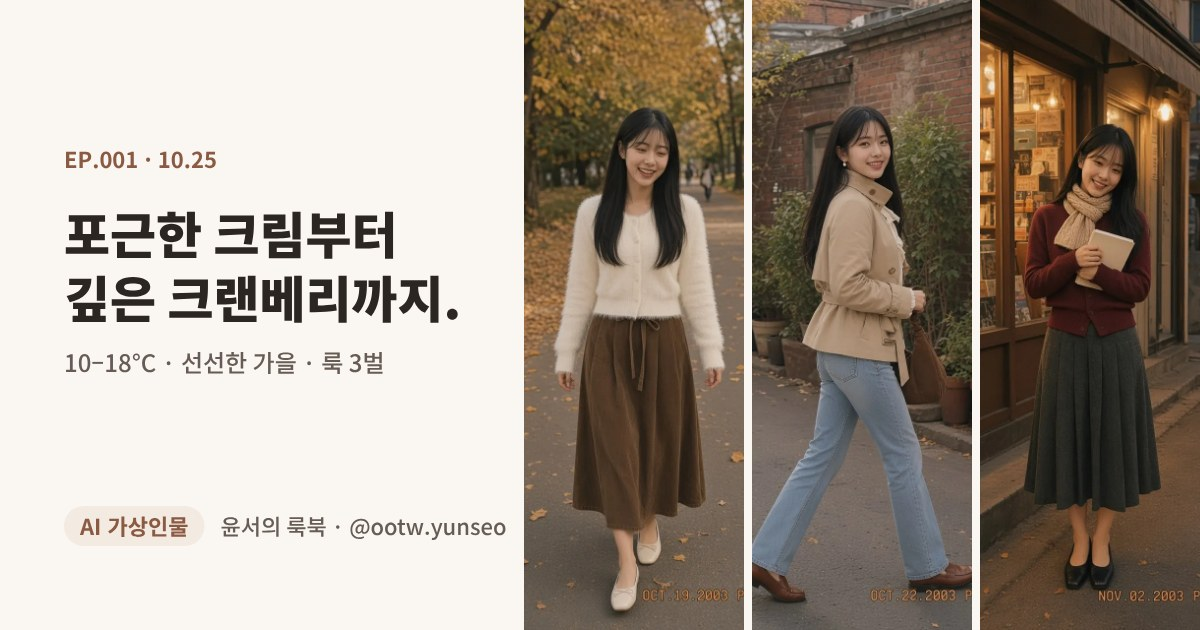
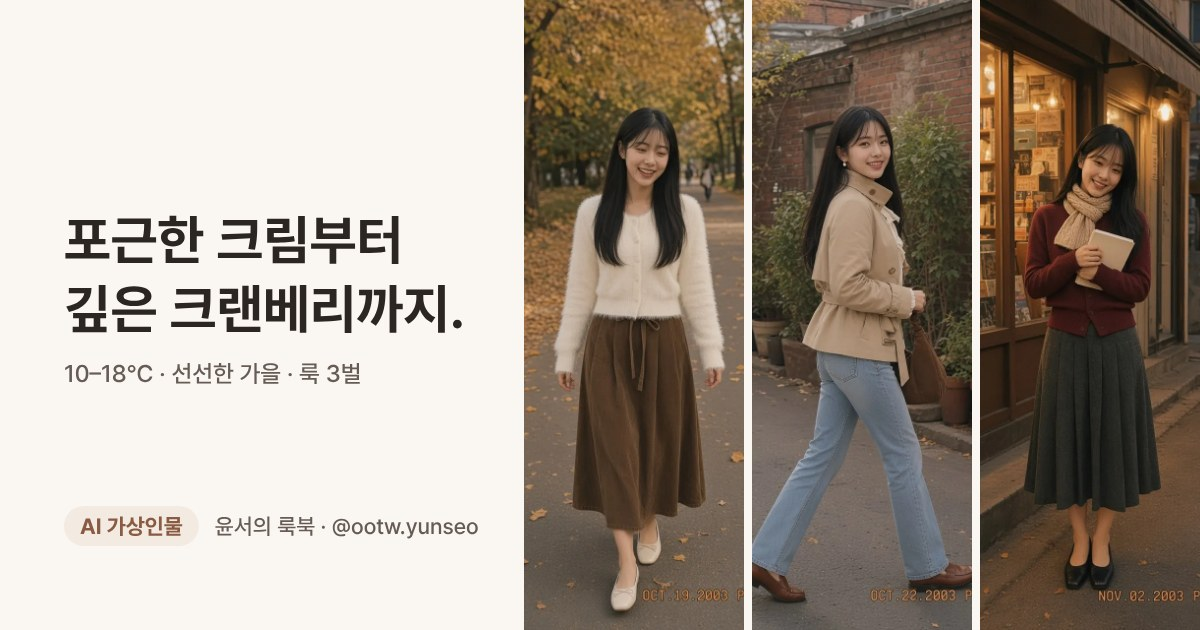
화면에서 EP 번호·날짜 삭제: 카드·배지·상세 머리·탭 제목·og 제목/설명/그림·복사 글에서 번호와 날짜 제거(주소·파일명·정렬용 date 칸은 유지), 룩 제목만 표시

Changed region(s): [[0.0308, 0.3317, 0.4008, 0.6333], [0.0617, 0.8143, 0.4317, 0.8746], [0.0308, 0.2413, 0.185, 0.2714]]

diff --git a/assets/look.js b/assets/look.js
@@ -25,7 +25,6 @@ function h(tag, attrs = {}, ...kids) {
   return el;
 }
 const safe = u => { try { const x = new URL(u); return x.protocol === 'https:' ? x.href : null; } catch { return null; } };
-const fmtDate = d => (d ? d.slice(5).replace('-', '.') : '');
 // "LOOK 1 · 크림 × 브라운" → "LOOK 1". 이름에 '·'가 없으면 순서로 붙인다
 const lookNo = (s, i) => (s.name.includes('·') ? s.name.split('·')[0].trim() : `LOOK ${i + 1}`);
 // 화면에 나오는 아이템 = 주소가 있는 것만. 주소가 빈 칸(아직 안 쓰는 쿠팡·무신사 자리)은 보이지도, 세지도 않는다
@@ -61,7 +60,7 @@ async function copyAll(look, pageUrl) {
   const all = look.sets.flatMap(itemsOf);
   const lines = [AD];
   if (all.some(it => shopOf(it) === '쿠팡')) lines.push(AD_COUPANG);
-  lines.push(AI_NOTE, '', `윤서의 룩북 EP.${look.id} · ${look.title}`, pageUrl, '');
+  lines.push(AI_NOTE, '', `윤서의 룩북 · ${look.title}`, pageUrl, '');
   for (const s of look.sets) {
     const items = itemsOf(s);
     if (!items.length) continue;
@@ -227,7 +226,7 @@ document.addEventListener('click', e => {
 });
 
 function render(look) {
-  document.title = `EP.${look.id} ${look.title} · 윤서의 룩북`;
+  document.title = `${look.title} · 윤서의 룩북`;
   const main = $('#look'); $('#loading').remove();
   const sets = look.sets.map((s, i) => ({ s, i, items: itemsOf(s), short: shortOf(look, s, i), loop: loopOf(look, s, i) }));
   const total = sets.reduce((n, x) => n + x.items.length, 0);
@@ -241,12 +240,11 @@ function render(look) {
   }
   const pageUrl = $('link[rel="canonical"]')?.href || location.href.split('#')[0];
 
-  // 머리: EP 번호 → 큰 제목 → 날씨 줄 → 룩 바로가기. 첫 화면은 최대한 사진에 양보한다
+  // 머리: 큰 제목 → 날씨 줄 → 룩 바로가기. 첫 화면은 최대한 사진에 양보한다
   // (날씨·색·태그·글 같은 칸은 JSON에 없어도 그 줄만 빠지고 화면은 그대로 나온다)
   const w = look.weather;
   main.append(
     h('header', { class: 'look-head' },
-      h('p', { class: 'eyebrow', text: [`EP.${look.id}`, fmtDate(look.date)].filter(Boolean).join(' · ') }),
       h('h1', { text: look.headline || look.title }),
       w ? h('p', { class: 'weather', text: ['🌤 ' + w.temp, w.note].filter(Boolean).join(' · ') }) : null,
       multi ? h('nav', { class: 'toc', 'aria-label': '룩 바로가기' },
@@ -285,7 +283,7 @@ function render(look) {
       look.palette?.length ? h('div', { class: 'palette' }, ...look.palette.map(([n, c]) => h('span', {}, h('i', { style: `background:${c}` }), n))) : null,
       // 상황 태그를 누르면 룩북에서 그 상황의 룩만 모아 본다
       look.tags?.length ? h('p', { class: 'tags' }, ...look.tags.map(t => h('a', { href: `${HOME}#${encodeURIComponent('상황:' + t)}`, text: '#' + t }))) : null,
-      ig ? igCard({ url: ig, thumb: look.instagramThumb || look.cover, alt: `EP.${look.id} 인스타 게시물 첫 사진`,
+      ig ? igCard({ url: ig, thumb: look.instagramThumb || look.cover, alt: `${look.title} 인스타 게시물 첫 사진`,
         label: '인스타에서 보기', sub: '게시물에 댓글 남기기 · @ootw.yunseo' }) : null,
       ytCard()),
     end));

diff --git a/assets/home.js b/assets/home.js
@@ -13,7 +13,6 @@ const COLORS = [
 ];
 const familyOf = c => COLORS.find(f => f[2].includes(c))?.[0];
 const pad = n => String(n).padStart(3, '0');
-const fmtDate = d => (d ? d.slice(5).replace('-', '.') : '');
 const rank = (list, v) => { const i = list.indexOf(v); return i < 0 ? 99 : i; };
 const iga = w => ((w.charCodeAt(w.length - 1) - 0xac00) % 28 ? '이' : '가'); // 받침 있으면 '이'
 const byNewest = (a, b) => b.id.localeCompare(a.id);
@@ -87,11 +86,11 @@ function looksOf(ep, pages) {
       if (it.cat) keys.add('아이템:' + it.cat);
       const f = familyOf(it.color); if (f) keys.add('컬러:' + f);
     }
-    // 쇼츠가 있는 룩은 EP 배지 안에만 ▶ 표시 (따로 누르는 곳을 만들지 않는다. 카드의 사진·이름은 모두 같은 곳으로)
+    // 쇼츠가 있는 룩은 배지 안에만 ▶ 표시 (따로 누르는 곳을 만들지 않는다. 카드의 사진·이름은 모두 같은 곳으로)
     const short = !!(ytId(s.youtubeId) || (i === 0 && ytId(ep.youtubeId)));
     return {
       ep, s, items, keys, short, id: `${ep.id}-${i + 1}`,
-      badge: (multi ? `EP.${ep.id} · ${s.name.split('·')[0].trim()}` : `EP.${ep.id}`) + (short ? ' ▶' : ''),
+      badge: [multi ? s.name.split('·')[0].trim() : '', short ? '▶' : ''].filter(Boolean).join(' '), // 번호·날짜는 화면에 쓰지 않는다
       title: s.name.split('·').pop().trim(), // 상세에서 사진 아래 붙는 룩 이름과 같게
       href: `${page}#set-${i + 1}`, // 사진·이름 → 그 룩의 사진
       itemsHref: `${page}#${i === 0 ? 'items' : `items-${i + 1}`}`, // '아이템 N개 보기' → 그 룩의 아이템 목록
@@ -106,9 +105,9 @@ function card(l, n) {
   const match = h('p', { class: 'match', hidden: '' });
   const el = h('article', { class: 'card', style: `--i:${n};view-transition-name:look-${l.id}` },
     h('a', { class: 'card-img', href: l.href, tabindex: '-1', 'aria-hidden': 'true' },
-      img, h('span', { class: 'ep', text: l.badge })),
+      img, l.badge ? h('span', { class: 'ep', text: l.badge }) : null),
     h('div', { class: 'card-body' },
-      h('p', { class: 'meta', text: [fmtDate(l.ep.date), l.ep.weather && `🌤 ${l.ep.weather.temp}`].filter(Boolean).join(' · ') }),
+      l.ep.weather ? h('p', { class: 'meta', text: `🌤 ${l.ep.weather.temp}` }) : null,
       h('h3', {}, h('a', { href: l.href }, l.title, l.short ? h('span', { class: 'sr', text: ' (쇼츠 영상 있음)' }) : null)),
       l.s.mood ? h('p', { class: 'mood', text: l.s.mood }) : null,
       match,

diff --git a/looks/001/index.html b/looks/001/index.html
@@ -6,19 +6,19 @@
 <meta name="theme-color" content="#faf6f1">
 <!-- page-meta -->
 <!-- tools/build.mjs가 look.html과 data/looks/001.json으로 만든 파일입니다. 여기를 직접 고치지 말고 JSON이나 look.html을 고친 뒤 다시 돌려 주세요 -->
-<title>EP.001 이번 주 골라둔 가을 코디 세 벌 · 윤서의 룩북</title>
+<title>이번 주 골라둔 가을 코디 세 벌 · 윤서의 룩북</title>
 <meta name="description" content="AI 가상인물 윤서의 데일리룩 · 크림 퍼가디건, 숏트렌치와 퍼프 블라우스, 크랜베리 가디건. 기분 따라 골라 입는 세 가지 가을 무드.">
 <link rel="canonical" href="https://jmsfnnjpzv-dotcom.github.io/yunseo/looks/001/">
 <meta property="og:site_name" content="윤서의 룩북">
 <meta property="og:locale" content="ko_KR">
 <meta property="og:type" content="article">
 <meta property="og:url" content="https://jmsfnnjpzv-dotcom.github.io/yunseo/looks/001/">
-<meta property="og:title" content="EP.001 이번 주 골라둔 가을 코디 세 벌">
+<meta property="og:title" content="이번 주 골라둔 가을 코디 세 벌">
 <meta property="og:description" content="AI 가상인물 윤서의 데일리룩 · 크림 퍼가디건, 숏트렌치와 퍼프 블라우스, 크랜베리 가디건. 기분 따라 골라 입는 세 가지 가을 무드.">
-<meta property="og:image" content="https://jmsfnnjpzv-dotcom.github.io/yunseo/img/ep001/og.jpg?v=97ca26d8">
+<meta property="og:image" content="https://jmsfnnjpzv-dotcom.github.io/yunseo/img/ep001/og.jpg?v=811ca5ef">
 <meta property="og:image:width" content="1200">
 <meta property="og:image:height" content="630">
-<meta property="og:image:alt" content="EP.001 이번 주 골라둔 가을 코디 세 벌 — AI로 만든 가상인물 윤서의 룩 사진">
+<meta property="og:image:alt" content="이번 주 골라둔 가을 코디 세 벌 — AI로 만든 가상인물 윤서의 룩 사진">
 <meta name="twitter:card" content="summary_large_image">
 <link rel="preload" href="../../data/looks/001.json" as="fetch" crossorigin>
 <link rel="preload" href="../../img/ep001/1.webp" as="image" fetchpriority="high">

diff --git a/looks/010/index.html b/looks/010/index.html
@@ -6,19 +6,19 @@
 <meta name="theme-color" content="#faf6f1">
 <!-- page-meta -->
 <!-- tools/build.mjs가 look.html과 data/looks/010.json으로 만든 파일입니다. 여기를 직접 고치지 말고 JSON이나 look.html을 고친 뒤 다시 돌려 주세요 -->
-<title>EP.010 퇴근 후 저녁약속, 뭐 입지? · 윤서의 룩북</title>
+<title>퇴근 후 저녁약속, 뭐 입지? · 윤서의 룩북</title>
 <meta name="description" content="AI 가상인물 윤서의 데일리룩 · 블랙 골지 티에 화이트 패딩 툭, 버건디 코듀로이로 포인트. 통굽 스니커즈로 편하게 입는 저녁약속 룩.">
 <link rel="canonical" href="https://jmsfnnjpzv-dotcom.github.io/yunseo/looks/010/">
 <meta property="og:site_name" content="윤서의 룩북">
 <meta property="og:locale" content="ko_KR">
 <meta property="og:type" content="article">
 <meta property="og:url" content="https://jmsfnnjpzv-dotcom.github.io/yunseo/looks/010/">
-<meta property="og:title" content="EP.010 퇴근 후 저녁약속, 뭐 입지?">
+<meta property="og:title" content="퇴근 후 저녁약속, 뭐 입지?">
 <meta property="og:description" content="AI 가상인물 윤서의 데일리룩 · 블랙 골지 티에 화이트 패딩 툭, 버건디 코듀로이로 포인트. 통굽 스니커즈로 편하게 입는 저녁약속 룩.">
-<meta property="og:image" content="https://jmsfnnjpzv-dotcom.github.io/yunseo/img/ep010/og.jpg?v=09476cb2">
+<meta property="og:image" content="https://jmsfnnjpzv-dotcom.github.io/yunseo/img/ep010/og.jpg?v=e8e4d8c0">
 <meta property="og:image:width" content="1200">
 <meta property="og:image:height" content="630">
-<meta property="og:image:alt" content="EP.010 퇴근 후 저녁약속, 뭐 입지? — AI로 만든 가상인물 윤서의 룩 사진">
+<meta property="og:image:alt" content="퇴근 후 저녁약속, 뭐 입지? — AI로 만든 가상인물 윤서의 룩 사진">
 <meta name="twitter:card" content="summary_large_image">
 <link rel="preload" href="../../data/looks/010.json" as="fetch" crossorigin>
 <link rel="preload" href="../../img/ep010/1.webp" as="image" fetchpriority="high">

diff --git a/looks/002/index.html b/looks/002/index.html
@@ -6,19 +6,19 @@
 <meta name="theme-color" content="#faf6f1">
 <!-- page-meta -->
 <!-- tools/build.mjs가 look.html과 data/looks/002.json으로 만든 파일입니다. 여기를 직접 고치지 말고 JSON이나 look.html을 고친 뒤 다시 돌려 주세요 -->
-<title>EP.002 비 안 오는 날엔 숏트렌치 · 윤서의 룩북</title>
+<title>비 안 오는 날엔 숏트렌치 · 윤서의 룩북</title>
 <meta name="description" content="AI 가상인물 윤서의 데일리룩 · 크림 니트에 연청 부츠컷, 브라운 로퍼까지. 숏트렌치 하나로 완성한 톤온톤 카페룩.">
 <link rel="canonical" href="https://jmsfnnjpzv-dotcom.github.io/yunseo/looks/002/">
 <meta property="og:site_name" content="윤서의 룩북">
 <meta property="og:locale" content="ko_KR">
 <meta property="og:type" content="article">
 <meta property="og:url" content="https://jmsfnnjpzv-dotcom.github.io/yunseo/looks/002/">
-<meta property="og:title" content="EP.002 비 안 오는 날엔 숏트렌치">
+<meta property="og:title" content="비 안 오는 날엔 숏트렌치">
 <meta property="og:description" content="AI 가상인물 윤서의 데일리룩 · 크림 니트에 연청 부츠컷, 브라운 로퍼까지. 숏트렌치 하나로 완성한 톤온톤 카페룩.">
-<meta property="og:image" content="https://jmsfnnjpzv-dotcom.github.io/yunseo/img/ep002/og.jpg?v=5978bd4f">
+<meta property="og:image" content="https://jmsfnnjpzv-dotcom.github.io/yunseo/img/ep002/og.jpg?v=baf1c3c3">
 <meta property="og:image:width" content="1200">
 <meta property="og:image:height" content="630">
-<meta property="og:image:alt" content="EP.002 비 안 오는 날엔 숏트렌치 — AI로 만든 가상인물 윤서의 룩 사진">
+<meta property="og:image:alt" content="비 안 오는 날엔 숏트렌치 — AI로 만든 가상인물 윤서의 룩 사진">
 <meta name="twitter:card" content="summary_large_image">
 <link rel="preload" href="../../data/looks/002.json" as="fetch" crossorigin>
 <link rel="preload" href="../../img/ep002/1.webp" as="image" fetchpriority="high">

diff --git a/tools/og.html b/tools/og.html
@@ -38,7 +38,7 @@
   <p>카톡은 이 사진을 가운데 기준 2:1(800×400)로 줄여 보여 줘서 위아래가 조금 잘려요. 그래서 글자는 가운데 쪽에만 둡니다.</p>
 </main>
 <script>
-// 틀: 왼쪽은 크림 바탕에 EP 번호·큰 제목·날씨·'AI 가상인물' 표시, 오른쪽은 룩 사진 1~3장(룩이 여럿이면 룩마다, 하나면 그 룩의 사진들)
+// 틀: 왼쪽은 크림 바탕에 큰 제목·날씨·'AI 가상인물' 표시, 오른쪽은 룩 사진 1~3장(룩이 여럿이면 룩마다, 하나면 그 룩의 사진들)
 const W = 1200, H = 630;
 const C = { bg: '#faf6f1', ink: '#2b2622', sub: '#665c55', accent: '#8a5a43', soft: '#f3ebe2' };
 const FONT = '"Apple SD Gothic Neo","Pretendard","Noto Sans KR","Noto Sans CJK KR",system-ui,sans-serif';
@@ -96,7 +96,7 @@ async function draw(ep) {
   const left = 64, maxW = W - photosW - left - 48;
   ctx.textBaseline = 'alphabetic';
   font(700, 22); ctx.fillStyle = C.accent;
-  ctx.fillText([`EP.${look.id}`, look.date ? look.date.slice(5).replace('-', '.') : ''].filter(Boolean).join(' · '), left, 168);
+  // 번호·날짜는 그림에 넣지 않는다
 
   // 큰 제목: 글쓴이가 \n으로 나눈 줄을 그대로 살리도록 먼저 글자 크기를 줄여 보고(40까지), 그래도 넘치면 띄어쓰기에서 나눈다
   const head = look.headline || look.title;
